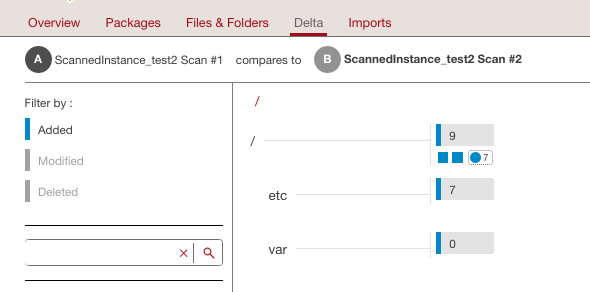
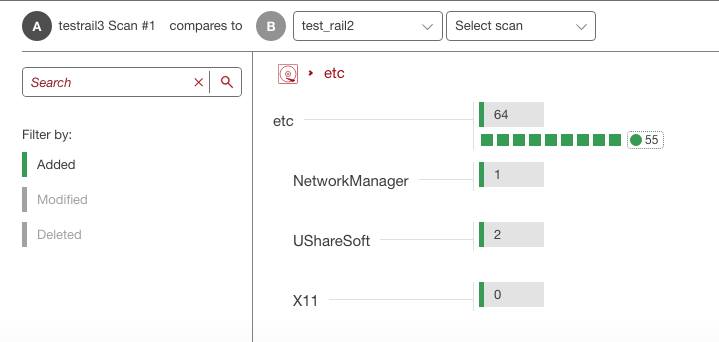
new screens and minor changes to match latest updates

diff --git a/end-user/en/source/pages/migration/scan-compare.rst b/end-user/en/source/pages/migration/scan-compare.rst
@@ -23,19 +23,23 @@ There are two methods to compare scans:
 
 UForge lists all the differences between the two systems on the ``Delta`` tab. The changes are color coded:
 
-	* blue for added
-	* red for deleted
+	* green for added
 	* orange for modified
+	* red for deleted
 
 The number shown corresponds to the number of files that are different between the two scans. When you drill down into a folder (as shown below), you can see the number of files modified depicted as clickable squares, while the number of files modified in sub-folders are indicated by a number next to the colored dot.
 
-In the example below, there are a total of 65 added files in the /etc folder, with 56 of these new files being added to sub-folders of /etc.
+In the example below, there are a total of 64 added files in the /etc folder, with 55 of these new files being added to sub-folders of /etc.
 
 	.. image:: /images/scan-compare-example.png
 
 If you click on any of the squares, you will see the details of the file that differs from the base scan.
 
 	.. image:: /images/scan-compare-details.png
+
+You can also see the changes as a list.
+
+	.. image:: /images/scan-compare-list.png
 
 Searching for Files in a Scan
 ~~~~~~~~~~~~~~~~~~~~~~~~~~~~~
